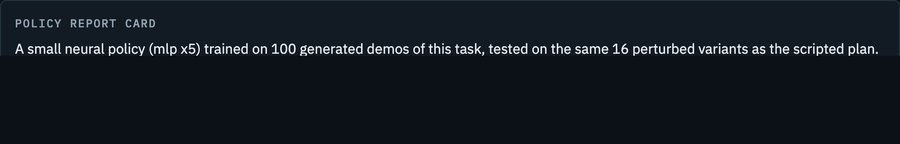
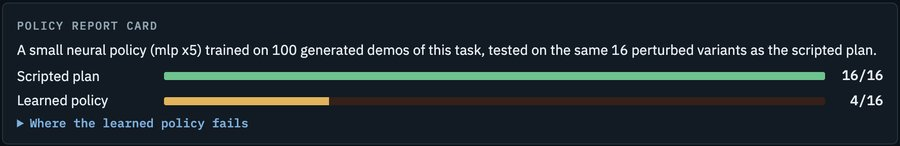
Devpost drafts: overview (name, 183-char pitch, links, tags), story, additional info (track, Tavily, AI tools used), feedback answers grounded in our logs; 3:2 gallery images; fixed policy card image

diff --git a/docs/devpost/story.md b/docs/devpost/story.md
@@ -1,0 +1,50 @@
+# Devpost: About the project
+
+## Inspiration
+Testing a robot skill in simulation starts with a scene, and someone has to build it by hand: measure the objects, write the scene file, place everything where the arm can reach, write the success checks, then debug why the cube fell off. That's days of work per scene, before a single policy is tested. We wanted to type the task and get a working, checked scene, one that tells you whether a plan really works or just got lucky.
+
+## What it does
+You type a task, for example *"Put the soda can to the left of the Rubik's cube and keep it upright."*
+
+1. **Plan:** NVIDIA Nemotron 3 Super turns it into objects and goals that code can check.
+2. **Ground:** Tavily finds each object's real size and mass, cross-checked across web pages (and read in full with `/extract` when search snippets aren't enough), plus friction and bounciness from engineering tables and the Franka gripper's limits from its datasheet. Tasks the gripper physically can't do are refused before anything is built, with the sources.
+3. **Build:** Super places the objects and writes the plan as skills (pick, place, push). Our controller turns them into motion; the model never writes code or robot XML.
+4. **Simulate and check:** MuJoCo runs a Franka Panda (from MuJoCo Menagerie), and code checks every goal. A model never decides pass or fail.
+5. **Repair:** if a goal fails, Nemotron 3.5 Super VL explains what went wrong from the frames, Super writes three repair candidates in parallel, the simulator tests each one in seconds, and the sturdiest runs next.
+6. **Stress-test:** every success is re-run 16 times with objects moved, heavier, more slippery, and the robot's view slightly off.
+7. **Use it:** export the scene with a policy test harness (`evaluate.py` scores your own policy on randomized versions of the scene), or generate LeRobot-format training data.
+
+Everything streams live in the web app: which model ran each step, its time, tokens and cost, and a 3D replay of every attempt in the browser, with a before/after view of the failure and the fix. You can drag objects or edit their sizes and masses and re-run the same plan, to try to break it.
+
+## How we built it
+- **Models on Nebius Token Factory:** Nemotron 3 Super for planning, building and repair; Nemotron 3 Nano for extracting numbers from web pages; Nemotron 3.5 Super VL for looking at the scene and at failed runs. One OpenAI-compatible client, strict JSON-schema output validated with Pydantic, reasoning switched on or off per step, and the cost of every call logged and shown in the UI.
+- **Tavily** for every real-world number: advanced search, `/extract` for full pages, quotes that must appear word for word in what Tavily returned, a context check (the friction quote must be about this material on a dry wood table), cross-source agreement, and size-vs-weight sanity checks.
+- **MuJoCo** with the Franka Panda from MuJoCo Menagerie, our own IK controller and skill library, goal predicates modelled on NVIDIA RoboLab's vocabulary, and a three.js viewer that replays the physics in the browser.
+- **LangSmith** traces every call. A FastAPI app streams the run over server-sent events. The public demo runs on a Hugging Face Space.
+- **Evaluation:** a frozen set of 15 held-out prompts plus 11 development prompts, 3 runs each, 104 runs per round, with 95 % confidence intervals.
+
+## Challenges we ran into
+- **Honest grasping.** Physical grasping in simulation is fragile, so we use a weld once the object is truly between the fingers. Reviewers found an early version would "grasp" a cube the fingers only touched from above; we fixed it, added the probe as a test, and now report every stress test with the assist off too.
+- **Bad web data.** One farm guide's 8.9 cm apple could refuse a whole task, and a soda can came back measured lying down. We added median voting across sources, verified agreement votes, orientation checks and a size-vs-weight test.
+- **Measuring what helps.** Our own evaluation showed the vision Critic made no measurable difference, and escalating to the 550B Ultra model fixed only 4 of the 10 runs sent to it. We replaced Ultra with three cheap Super repairs checked by the simulator, which did as well for less, and we say plainly that the vision model is there to explain, not to win.
+- **Deployment.** Our Nebius AI Cloud account couldn't create registries or endpoints (PermissionDenied), so the demo runs on a free Hugging Face Space, while every model call still goes through Token Factory.
+
+## Accomplishments that we're proud of
+- **42 of 45 runs pass on 15 held-out prompts**, at a median model cost of about half a cent per task.
+- **Test-time compute plus a verifier:** three parallel Super repairs, judged by physics, matched a model four times larger.
+- **Reasoning pays for itself:** with Super's reasoning off, success fell from 11/11 to 6/11, and tasks cost twice as much because of the extra repairs.
+- **A policy test you can take home:** the exported harness needs only MuJoCo and NumPy. A small policy we trained on our generated demos matches the scripted plan on a simple stack but drops to 4/16 placing a tennis ball, which is exactly the kind of weakness the test is meant to find.
+- **Every claim checked:** we ran five rounds of independent reviews and corrected every number they could not verify.
+
+## What we learned
+- A cheap model plus a fast, exact verifier beats a bigger model guessing alone.
+- Never let a model decide pass or fail; let it explain.
+- Web grounding is only as good as its checks: quotes must exist, sources must agree, and the context must match.
+- Measure every component. Two of ours (Ultra escalation and the vision Critic as a repair engine) didn't earn their place, and the data said so.
+
+## What's next for Spec-to-Sim
+- Physical grasping without the weld, using stronger fingers and contact tuning.
+- More robots from MuJoCo Menagerie (UR5e first) and side grasps.
+- Mesh objects with sizes from the web, instead of boxes, cylinders and spheres.
+- Export to Isaac Lab and USD, and a regression suite that scores a policy on every saved task in CI.
+- A Nebius Serverless Job that generates thousands of verified demonstrations overnight.

diff --git a/docs/devpost/feedback.md b/docs/devpost/feedback.md
@@ -1,0 +1,37 @@
+# Devpost: feedback answers (for "Most Valuable Feedback")
+
+The form has 9 feedback questions (see your screenshots). These answers are grouped by topic; map
+each to the matching question. Every point comes from what actually happened while building, with
+numbers from our logs (`.cache/spend.jsonl`, 1,413 calls, $5.00 total).
+
+## Nemotron models: what worked
+- **Nemotron 3 Super is the right default for structured planning.** With strict JSON schema it reliably produced nested plans we validate with Pydantic (799 calls, median 9.6 s, $2.33 in total). It was cheap enough to sample three repairs in parallel and let a simulator choose, which matched escalating to Ultra at lower cost.
+- **Reasoning is worth it for planning.** With Super's reasoning off, success on our 11 development prompts fell from 11/11 to 6/11 and the median cost per task doubled ($0.0055 → $0.0108), because failed plans need extra repairs. Please keep the per-request `enable_thinking` switch; it is one of the most useful knobs.
+- **Nemotron 3.5 Super VL with reasoning off is fast** (median 1.9 s, versus ~25 s with reasoning on) and good at describing a contact sheet of frames.
+- **Nano is a good extractor** for numbers and quotes from web pages ($0.11 for 333 calls).
+
+## Nemotron models: what to improve
+- **Ultra sometimes ignores strict JSON output.** Even with `response_format: json_schema`, Ultra 550B wrote its reasoning before the JSON in some replies, so we had to recover the last JSON object from the text. Its 67 calls were 48 % of our spend, at a median 32 s and 8,500 output tokens, and its repairs fixed 4 of the 10 runs we escalated. A guaranteed schema mode with reasoning kept separate (e.g. reasoning in its own field, never in the content) would make Ultra usable in pipelines.
+- **The VL model mostly restated the numbers we gave it.** When we passed measured failures alongside frames, its diagnoses leaned on the numbers rather than the images; in our ablation it made no measurable difference to repair success. Clear guidance on prompting VL models to describe frames first, or a "vision-only" mode, would help.
+- **Expected spatial conventions:** the VL model gave a left/right fix in the wrong axis until we stated the coordinate frame in the prompt. A short doc on how Nemotron VL handles 3D frames and coordinates would save others the debugging.
+
+## Nebius Token Factory: what worked
+- **One OpenAI-compatible client for every model** made swapping model sizes a one-word change.
+- **Strict JSON schema + per-request reasoning control** were the two features we leaned on most.
+- **Pricing per token is low enough** that a full 104-run evaluation cost $0.94.
+
+## Nebius Token Factory and AI Cloud: what to improve
+- **Spending limits:** we built our own daily cap from logged token counts. A per-key hard daily limit with an alert, set in the console and enforced server-side, is the single feature we missed most for a public demo.
+- **Cost in the API response:** returning the cost (or the price per token) with each response would remove the need to hard-code prices from listings, which we couldn't verify.
+- **Model IDs:** model names differ between third-party listings and the API; we had to call `GET /v1/models` to find them. A stable, documented ID list with aliases would help.
+- **AI Cloud onboarding:** with hackathon credits, `registry create` and `endpoint create --dry-run` returned `PermissionDenied`, with no message saying which permission or billing step was missing. We couldn't deploy the Serverless Endpoint and Job we had packaged, so the demo runs elsewhere. An actionable error ("activate billing in project X" or "your role lacks Y") would have saved hours.
+- **Latency visibility:** Nano's median latency in our logs was 7 s for long inputs; a time-to-first-token and queue-time breakdown in the response would help tune pipelines.
+
+## Developer experience suggestions
+- A worked example of a **verifier-in-the-loop pattern** (sample N candidates, score with an external checker, keep the best) would showcase where small Nemotron models shine.
+- A **"structured output with reasoning" cookbook** covering when to turn reasoning on, token budgets, and recovering JSON.
+- **LangSmith or OpenTelemetry tracing examples** for Token Factory, since tracing made our cascade debuggable.
+
+## Tavily (if asked)
+- `/extract` with a `query` returning only the relevant chunks was ideal for reading engineering tables.
+- An option to return **numbers with their units already parsed**, and a **date and source type** per result, would make grounding pipelines simpler.

diff --git a/docs/devpost/additional-info.md b/docs/devpost/additional-info.md
@@ -1,0 +1,17 @@
+# Devpost: additional questions
+
+- **Track:** Physical AI
+- **Did you use Tavily?** Yes. It grounds every object's size and mass (advanced search, `/extract` for full pages, cross-source agreement), material friction and bounciness, and the Franka gripper's limits; these numbers decide what is simulated and which tasks are refused. See the README section "How we use Tavily".
+- **Submitter type:** Individual
+- **Country / province:** Canada / British Columbia
+- **Demo URL:** https://austintransformer-spec-to-sim.hf.space (free, no sign-up; recorded runs replay without any model calls, live runs are capped per visitor)
+- **Repo:** https://github.com/atabak-eghbal/spec-to-sim (MIT)
+- **Video:** https://youtu.be/HfrEUVrve4M
+
+## AI tools used (be explicit; judges value honesty here)
+I built Spec-to-Sim with Claude Code (Anthropic) as a coding partner: it wrote and refactored much of the code, ran the evaluations and the simulations, built the demo video pipeline, and ran simulated reviewer passes whose findings I acted on. I set the direction, made the design decisions (what to build, what to cut, e.g. dropping Ultra after the data), tested the app myself and reviewed the results. Inside the product, the AI is NVIDIA Nemotron on Nebius Token Factory (Super, Nano, Super VL) and Tavily for web grounding.
+
+(Adjust this paragraph to your own words before submitting.)
+
+## Learning level / career value
+Fill in from your own experience. Suggested angle: first end-to-end Physical AI system combining an LLM cascade, web grounding and physics simulation with a rigorous evaluation; directly relevant to robotics simulation and evaluation tooling roles.

diff --git a/docs/devpost/overview.md b/docs/devpost/overview.md
@@ -1,0 +1,24 @@
+# Devpost: overview fields
+
+## Project name (≤ 60 chars)
+Spec-to-Sim: one sentence to a checked robot simulation
+
+## Elevator pitch (≤ 200 chars)
+Type a robot task in plain English. Get a MuJoCo scene grounded in real web facts, goals checked in code, and when a plan fails, Nemotron proposes 3 fixes and the simulator picks one.
+
+(183 characters)
+
+## Links
+- Try it out: https://austintransformer-spec-to-sim.hf.space
+- Code: https://github.com/atabak-eghbal/spec-to-sim
+- Video: https://youtu.be/HfrEUVrve4M
+
+## Built with (tags)
+nvidia-nemotron, nebius-token-factory, tavily, mujoco, mujoco-menagerie, langsmith, python, fastapi, pydantic, three.js, numpy, lerobot, hugging-face-spaces
+
+## Gallery images (3:2, in docs/devpost/images/)
+1. `1-fail-then-fixed.jpg`: the app: a soda can falls over on attempt 1 and stands on attempt 2, with the real-world facts beside it.
+2. `2-repair-loop.jpg`: three repair candidates tested in the simulator; the sturdiest runs.
+3. `3-tavily-facts.jpg`: real sizes from the web, the model's own guess under each, 4/4 sources agreeing.
+4. `4-stress-and-policy.jpg`: 16 perturbed re-runs as tiles, and a learned policy's report card.
+5. `5-refused.jpg`: a grapefruit refused before building: 8.2 cm against the gripper's 8 cm.
